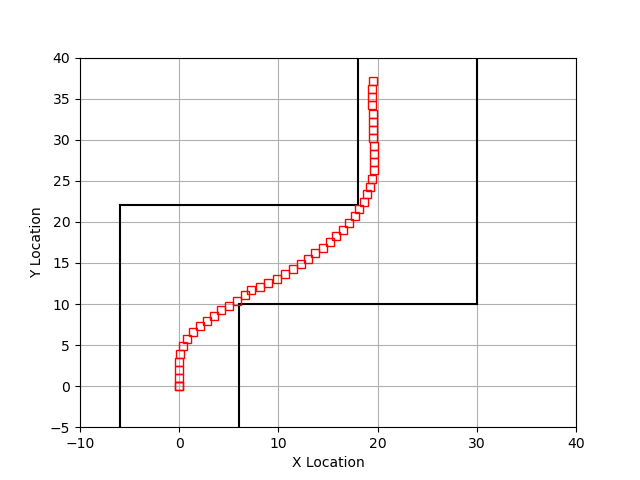
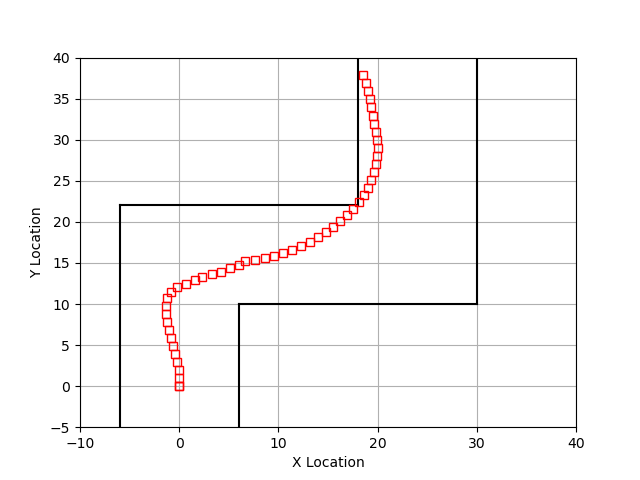
commit HW3 update

Changed region(s): [[0.25, 0.125, 0.625, 0.75]]

diff --git a/HW3_AutoPilot/main.py b/HW3_AutoPilot/main.py
@@ -17,8 +17,8 @@ CROSS_RATE = 0.6
 MUTATION_RATE = 0.05
 MAX_GEN = 100
 
-TRAIN = False
-TEST = True
+TRAIN = True
+TEST = False
 
 DELAY_TIME = 0.05
 
@@ -118,12 +118,12 @@ class GeneticAlgorithmRealNum:
         alpha = np.where(cr < self.cross_rate, np.random.uniform(size = len(index)), 1)[None].T
 
         # Crossover gene information
-        spring1 = mating_pool[index] * alpha + mating_pool[index + 1] * (1 - alpha)
-        spring2 = mating_pool[index] * (1 - alpha) + mating_pool[index + 1] * alpha
+        offspring1 = mating_pool[index] * alpha + mating_pool[index + 1] * (1 - alpha)
+        offspring2 = mating_pool[index] * (1 - alpha) + mating_pool[index + 1] * alpha
 
         # Assign new gene
-        mating_pool[index] = spring1
-        mating_pool[index + 1] = spring2
+        mating_pool[index] = offspring1
+        mating_pool[index + 1] = offspring2
 
         return mating_pool
 
@@ -444,6 +444,6 @@ if __name__ =='__main__':
                 save_model(pops[i], f'models/best_model_{i}.csv')
 
     if TEST == True:
-        best_model = load_model('models/best_model_49.csv')                  # 選擇要重播的模型
+        best_model = load_model('models/best_model_105.csv')                  # 選擇要重播的模型
         car = Car(radius=CAR_RADIUS, length=CAR_LENGTH)
         success = car.test_run(best_model, walls, goal_position, DELAY_TIME) # 觀察該模型的車輛移動狀況
